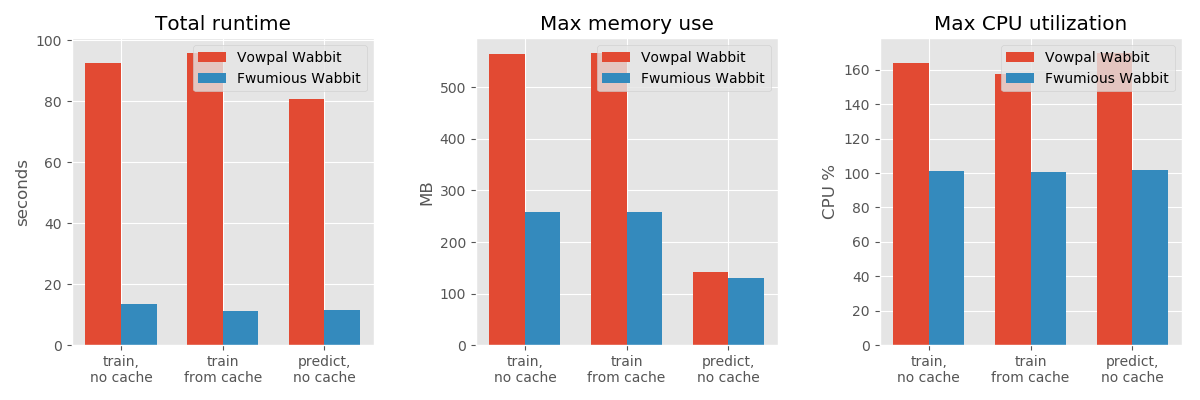
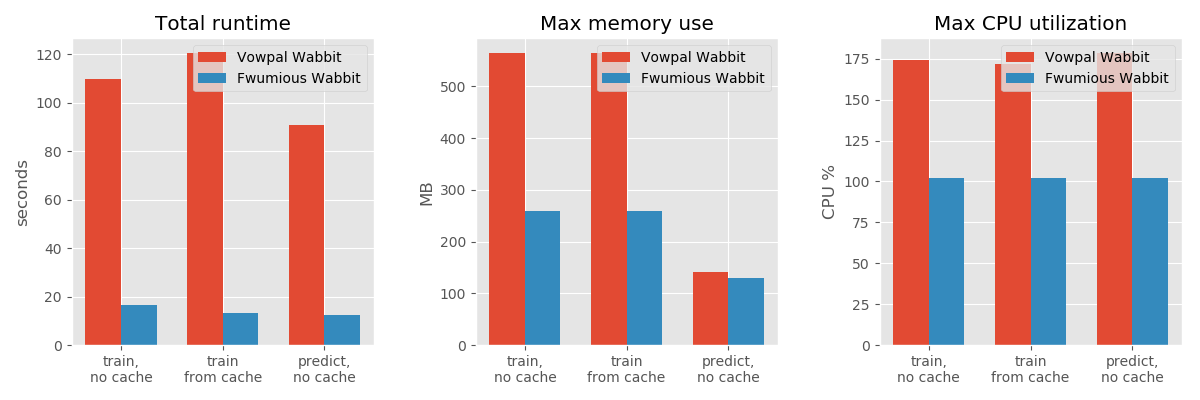
bumping version & benchmark info

diff --git a/BENCHMARK.md b/BENCHMARK.md
@@ -14,12 +14,12 @@ here are the results for 3 runs for each scenario, taking mean values:
 ![benchmark results](benchmark_results.png)
 Scenario|Runtime (seconds)|Memory (MB)|CPU %
 ----|----:|----:|----:
-vw train, no cache|92.56 | 565 | 164.07
-fw train, no cache|13.61 | 258 | 101.10
-vw train, using cache|95.79 | 567 | 157.63
-fw train, using cache|11.31 | 258 | 100.73
-vw predict, no cache|80.53 | 141 | 169.83
-fw predict, no cache|11.39 | 130 | 101.63
+vw train, no cache|109.78 | 564 | 174.17
+fw train, no cache|16.44 | 258 | 101.97
+vw train, using cache|120.53 | 565 | 171.70
+fw train, using cache|13.07 | 258 | 102.03
+vw predict, no cache|90.98 | 141 | 178.53
+fw predict, no cache|12.47 | 130 | 102.07
 
 ### Model equivalence
 loss values for the test set:
@@ -82,7 +82,7 @@ or, if you just want the numbers with less dependencies run:
 ### versions:
 ```
 vowpal wabbit 8.9.2 (git commit: 884420267)
-fwumious wabbit 0.1 (git commit: 8ca1842)
+fwumious wabbit 0.1 (git commit: b426290)
 ```
 
 ### CPU Info
@@ -92,5 +92,5 @@ Intel(R) Xeon(R) CPU E5-2630 v2 @ 2.60GHz
 ### Operating System
 ```
 System: Linux
-Version: #174~14.04.1-Ubuntu SMP Thu May 9 08:17:37 UTC 2019
+Version: #151-Ubuntu SMP Fri Jun 18 19:21:19 UTC 2021
 ```
